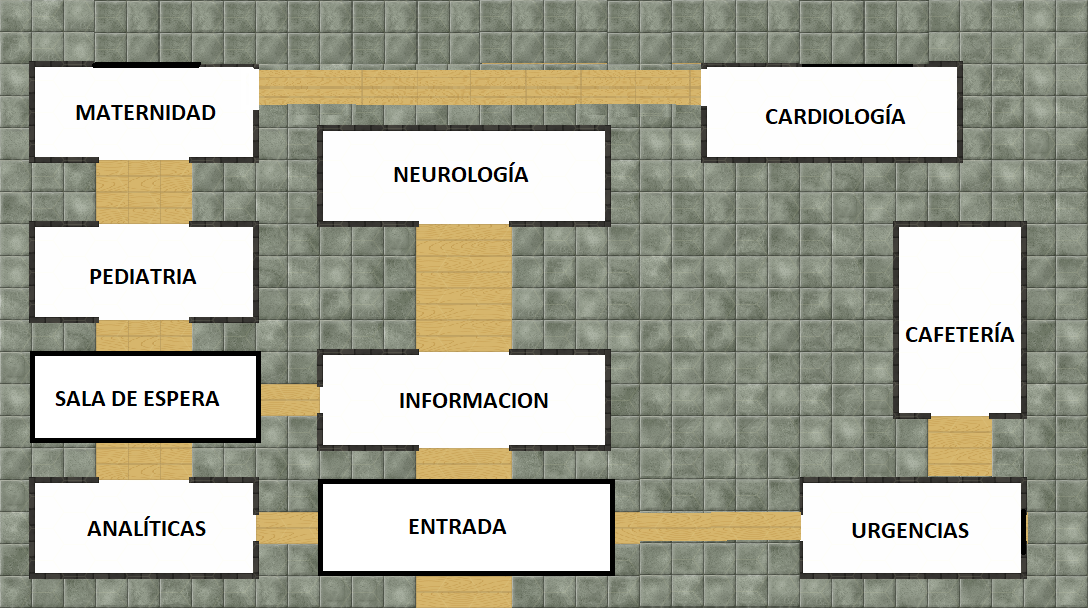
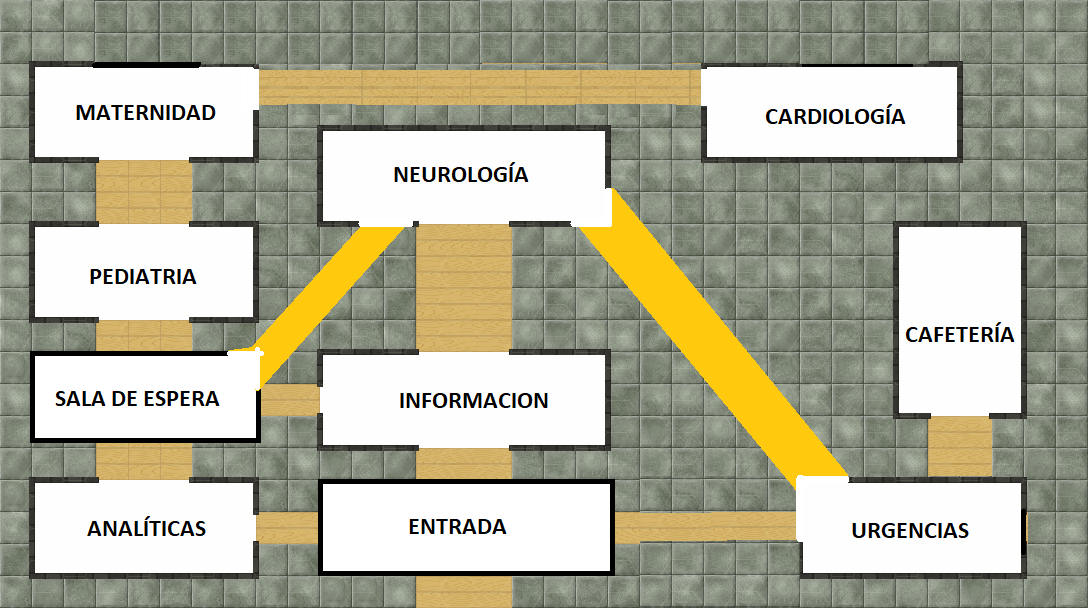
06:Ahora exixten las direcciones noreste

Changed region(s): [[0.5312, 0.3125, 0.7812, 0.875], [0.1875, 0.3438, 0.375, 0.6562]]

diff --git a/Room.java b/Room.java
@@ -20,6 +20,7 @@ public class Room
     private Room eastExit;
     private Room westExit;
     private Room southEastExit;
+    private Room northEastExit;
     /**
      * Create a room described "description". Initially, it has
      * no exits. "description" is something like "a kitchen" or
@@ -39,7 +40,7 @@ public class Room
      * @param south The south exit.
      * @param west The west exit.
      */
-    public void setExits(Room north, Room east, Room south, Room west, Room southEast) 
+    public void setExits(Room north, Room east, Room south, Room west, Room southEast, Room northEast) 
     {
         if(north != null)
             northExit = north;
@@ -51,6 +52,9 @@ public class Room
             westExit = west;
         if(southEast != null){
             southEastExit = southEast;
+        }
+        if(northEast != null){
+            northEastExit = northEast;
         }
     }
 
@@ -79,6 +83,9 @@ public class Room
         if(direction.equals("southEast")){
             aDevolver = southEastExit;
         }
+        if(direction.equals("northEast")){
+            aDevolver = northEastExit;
+        }
         return aDevolver;
     }
 
@@ -91,19 +98,22 @@ public class Room
     public String getExitString(){
         String descripcion = "Exits: ";
         if(northExit != null) {
-            descripcion = "north ";
+            descripcion += "north ";
         }
         if(eastExit != null) {
-            descripcion = "South ";
+            descripcion += "South ";
         }
         if(southExit != null) {
-            descripcion = "East ";
+            descripcion += "East ";
         }
         if(westExit != null) {
-            descripcion = "West ";
+            descripcion += "West ";
         }
         if(southEastExit != null) {
-            descripcion = "southEast ";
+            descripcion += "southEast ";
+        }
+        if(northEastExit != null) {
+            descripcion += "northEast ";
         }
         return descripcion;
     }

diff --git a/Game.java b/Game.java
@@ -49,16 +49,16 @@ public class Game
         cardiologia = new Room("en la sala de cardiologia");
 
         // initialise room exits
-        entrada.setExits(informacion, urgencias, null, analiticas, null);
-        informacion.setExits(neurologia, null, entrada, salaDeEspera, null);
-        urgencias.setExits(cafeteria, null, null, entrada, null);
-        cafeteria.setExits(null, null, urgencias, null, null);
-        analiticas.setExits(salaDeEspera, entrada, null, null, null);
-        salaDeEspera.setExits(pediatria, informacion, analiticas, null, null);
-        pediatria.setExits(maternidad, null, salaDeEspera, null, null);
-        maternidad.setExits(null, cardiologia, pediatria, null, null);
-        cardiologia.setExits(null, null, null, maternidad, null);
-        neurologia.setExits(null, null, informacion, null, urgencias);
+        entrada.setExits(informacion, urgencias, null, analiticas, null, null);
+        informacion.setExits(neurologia, null, entrada, salaDeEspera, null, null);
+        urgencias.setExits(cafeteria, null, null, entrada, null, null);
+        cafeteria.setExits(null, null, urgencias, null, null, null);
+        analiticas.setExits(salaDeEspera, entrada, null, null, null, null);
+        salaDeEspera.setExits(pediatria, informacion, analiticas, null, null, neurologia);
+        pediatria.setExits(maternidad, null, salaDeEspera, null, null, null);
+        maternidad.setExits(null, cardiologia, pediatria, null, null, null);
+        cardiologia.setExits(null, null, null, maternidad, null, null);
+        neurologia.setExits(null, null, informacion, null, urgencias, null);
 
         currentRoom = entrada;  // start game outside
     }
